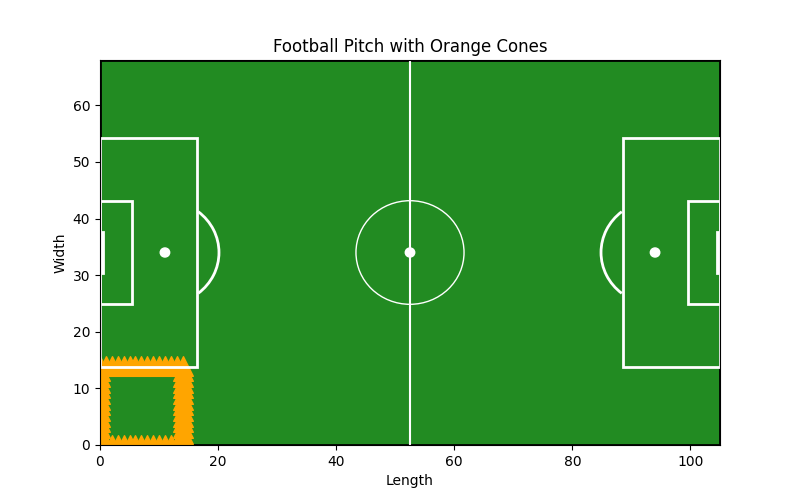
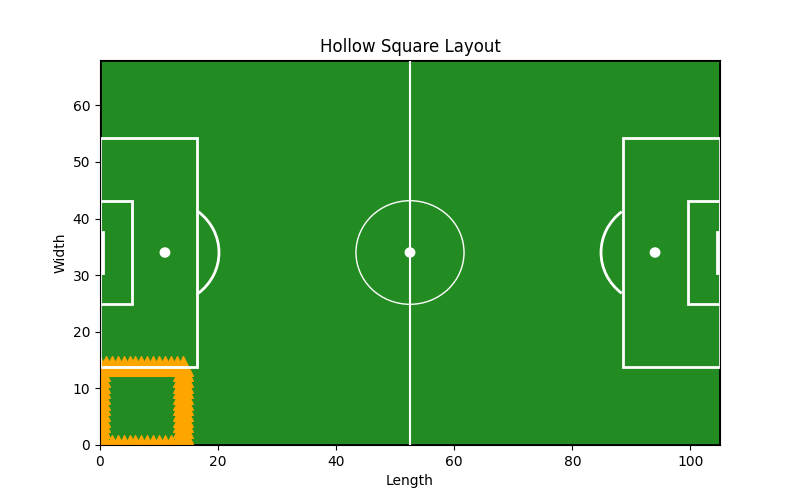
🐛 🐛 ✨ feat: enhance ConeLayoutDrawer and ConeLayoutSetup to accept custom titles for layout plots

Changed region(s): [[0.3438, 0.06, 0.6875, 0.12]]

diff --git a/src/cone_layout_setup.py b/src/cone_layout_setup.py
@@ -33,17 +33,29 @@ class ConeLayoutSetup:
             )
             for i in range(NUM_CONES)
         ]
-        self._draw_and_save(cone_positions, "zigzag_layout.png")
+        self._draw_and_save(
+            cone_positions,
+            "zigzag_layout.png",
+            "Zigzag Layout",
+        )
 
     def setup_diagonal(self):
         cone_positions = [
             (i * DIAGONAL_STEP, i * DIAGONAL_STEP) for i in range(NUM_CONES)
         ]
-        self._draw_and_save(cone_positions, "diagonal_layout.png")
+        self._draw_and_save(
+            cone_positions,
+            "diagonal_layout.png",
+            "Diagonal Layout",
+        )
 
     def setup_row(self):
         cone_positions = [(i * ROW_STEP, ROW_Y) for i in range(NUM_CONES)]
-        self._draw_and_save(cone_positions, "row_layout.png")
+        self._draw_and_save(
+            cone_positions,
+            "row_layout.png",
+            "Row Layout",
+        )
 
     def setup_column(self):
         cone_positions = [
@@ -53,7 +65,11 @@ class ConeLayoutSetup:
             )
             for i in range(NUM_CONES)
         ]
-        self._draw_and_save(cone_positions, "column_layout.png")
+        self._draw_and_save(
+            cone_positions,
+            "column_layout.png",
+            "Column Layout",
+        )
 
     def setup_square(self):
         cone_positions = []
@@ -63,10 +79,10 @@ class ConeLayoutSetup:
         for y in range(1, SQUARE_SIDE_LENGTH - 1):
             cone_positions.append((0, y))
             cone_positions.append((SQUARE_SIDE_LENGTH - 1, y))
-        self._draw_and_save(cone_positions, "hollow_square_layout.png")
+        self._draw_and_save(cone_positions, "hollow_square_layout.png", "Hollow Square Layout")
 
-    def _draw_and_save(self, cone_positions, filename):
-        drawer = ConeLayoutDrawer(cone_positions, filename)
+    def _draw_and_save(self, cone_positions, filename, title):
+        drawer = ConeLayoutDrawer(cone_positions, filename, title)
         drawer.save_plot()
 
 

diff --git a/src/cone_layout_drawer.py b/src/cone_layout_drawer.py
@@ -42,9 +42,15 @@ PENALTY_ARC_THETA4 = 232
 class ConeLayoutDrawer:
     """Cone layout drawer class"""
 
-    def __init__(self, cone_positions, filename="cone_layout.png"):
+    def __init__(
+        self,
+        cone_positions,
+        filename="cone_layout.png",
+        title="Football Pitch with Orange Cones",
+    ):
         self.cone_positions = cone_positions
         self.filename = filename
+        self.title = title
         self.fig, self.ax = plt.subplots(figsize=FIG_SIZE)
         self.setup_pitch()
 
@@ -214,7 +220,7 @@ class ConeLayoutDrawer:
     def set_labels(self):
         self.ax.set_xlim(0, PITCH_LENGTH)
         self.ax.set_ylim(0, PITCH_WIDTH)
-        self.ax.set_title("Football Pitch with Orange Cones")
+        self.ax.set_title(self.title)
         self.ax.set_xlabel("Length")
         self.ax.set_ylabel("Width")
 
@@ -231,5 +237,7 @@ if __name__ == "__main__":
         (70, 35),
         (90, 10),
     ]
-    drawer = ConeLayoutDrawer(cone_positions, "cone_layout.png")
+    drawer = ConeLayoutDrawer(
+        cone_positions, "cone_layout.png", "Custom Title for Cone Layout"
+    )
     drawer.save_plot()
